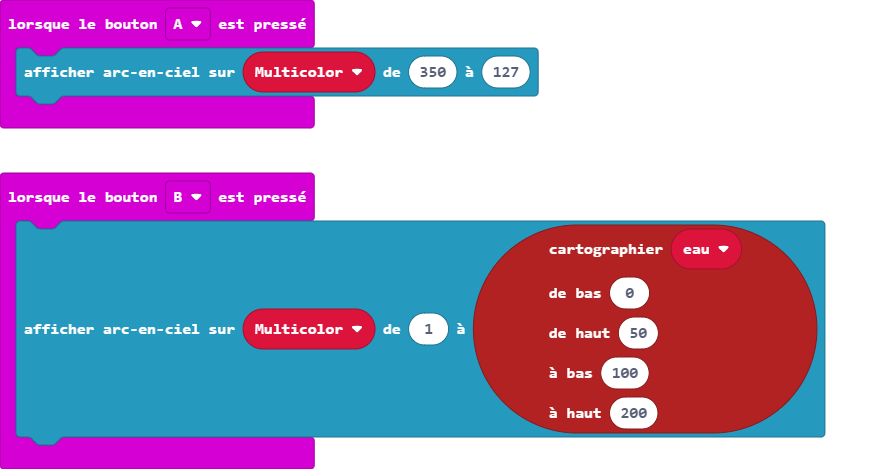
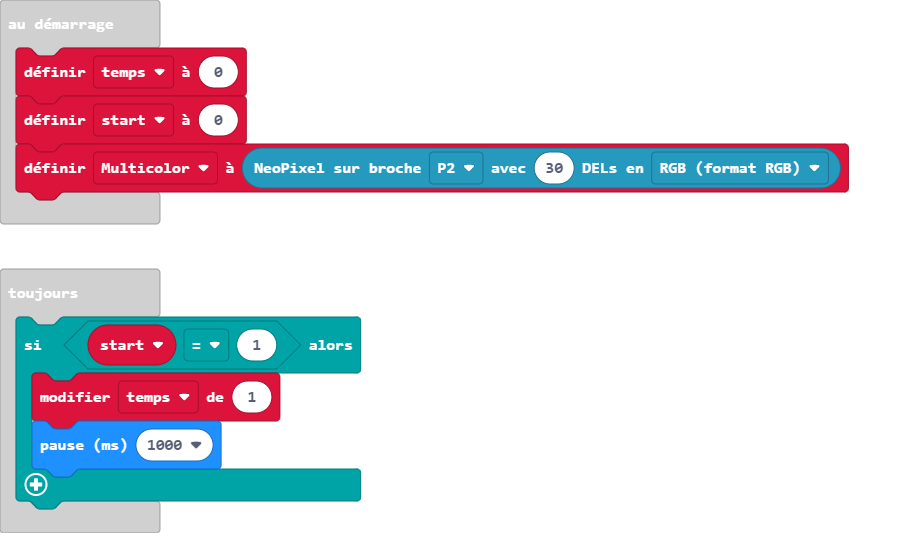
Mise à jour main.blocks, main.ts

diff --git a/main.ts b/main.ts
@@ -12,7 +12,12 @@ input.onButtonPressed(Button.B, function () {
     ))
 })
 let Multicolor: neopixel.Strip = null
+let temps = 0
+let start = 0
 Multicolor = neopixel.create(DigitalPin.P2, 30, NeoPixelMode.RGB)
 basic.forever(function () {
-	
+    if (start == 1) {
+        temps += 1
+        basic.pause(1000)
+    }
 })
